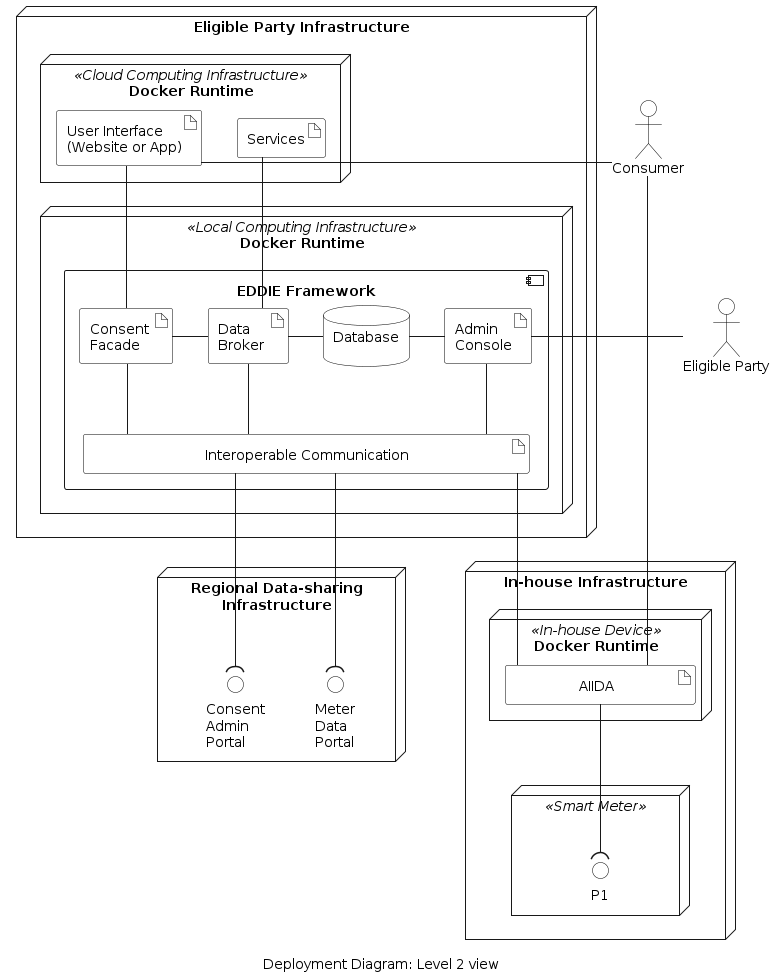
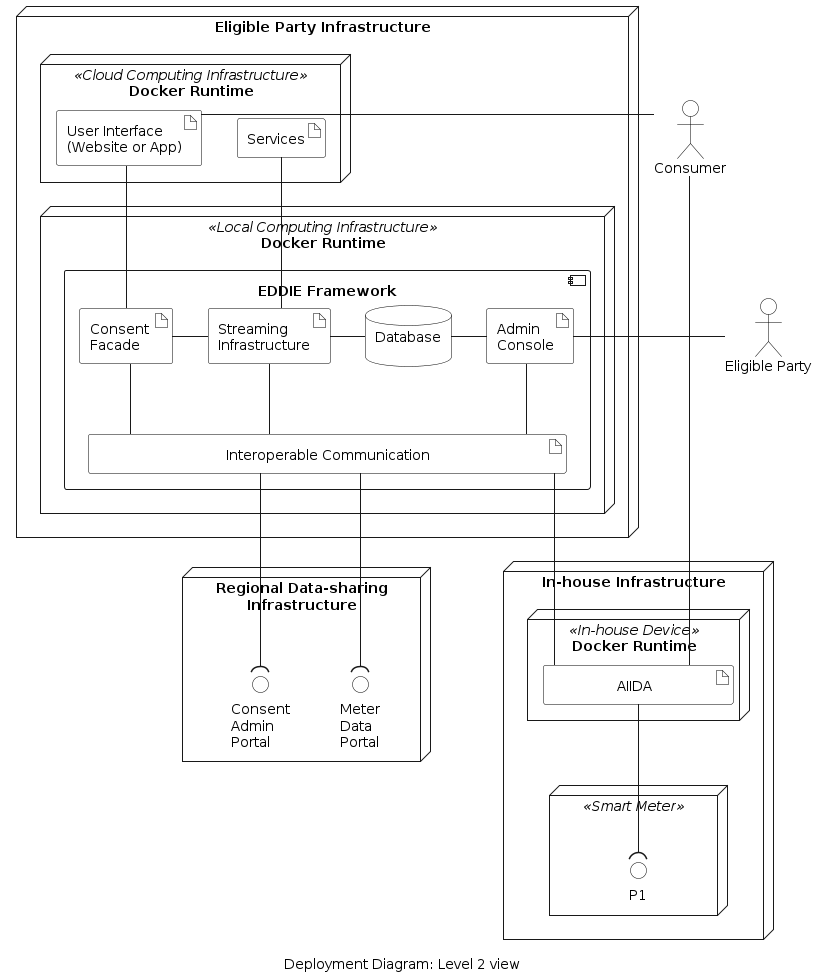
Change naming to reflect the proposal

diff --git a/arc42/04-solution-strategy/index.md b/arc42/04-solution-strategy/index.md
@@ -22,8 +22,8 @@ There are certain goals of the framework which can be achieved by following a sp
 
 | No. | Quality Goal | Scenario | Approach | Details |
 |-|-|-|-|-|
-| 1 | Consent collection | All consumers shall provide their consent for sharing data in a homogeneous manner, regardless of their country or their utility provider.| Implement a Consent Facade component based on the European Reference Process for providing consent. This component shall include speacialized adaptors implmenting the specificities of each country. | [Link](./consent-facade/consent-facade.md) |
-| 2 | World-wide coverage | Consumers from around the world shall be eligible to use the framework. | Devise a multi-stage expansion plan (starting from one area and expanding to others) that achieves coverage of a large area around the world. | [Link](./expansion-plan/expansion-plan.md) |
+| 1 | Consent Facade | All consumers shall provide their consent for sharing data in a homogeneous manner, regardless of their country or their utility provider.| Implement a Consent Facade component based on the European Reference Process for providing consent. This component shall include speacialized adaptors implmenting the specificities of each country. | [Link](./consent-facade/consent-facade.md) |
+| 2 | Far-reaching | Eligible parties in many countries shall be able to use the EDDIE Framework. | The EDDIE Framework shall become compatible with multiple regional data hubs in three phases. | [Link](./three-phases/three-phases.md) |
 | 3 | Incentives | Why would consumers and eligible parties use eddie | marketplace |  |
 | 4 |  |  |  |  |
 

diff --git a/arc42/05-building-block-view/index.md b/arc42/05-building-block-view/index.md
@@ -84,7 +84,7 @@ The EDDIE Framework includes the following components.
 | Component | Responsibility |
 | - | - |
 | Consent Facade | Manages and stores the consent of the consumers. |
-| Data Broker | Handles the communication among internal and external components |
+| Streaming Infrastructure | Handles the communication among internal and external components |
 | Database | Stores information about consents, state, and data. |
 | Admin Console | Entry point for the eligible party to register with regional data-sharing infrastructure (if necessary). |
 | Interoperable Communication | Translates messages/data from different Regional Data-sharing Infrastructures (e.g., from different countries) to a unified format. |
@@ -102,7 +102,7 @@ The Level 2 view introduces the following interfaces.
 | Provided From | Consumed By | Type | Data Model |
 | - | - | - | - |
 | Consent Facade | User Interface | HTTP | [Link](./data-models/consent-facade-interface.md) |
-| Data Broker | Services | Kafka | [Link](./data-models/data-broker-interface.md) |
+| Streaming Infrastructure | Services | Kafka | [Link](./data-models/data-broker-interface.md) |
 | Interoperable Communication | AIIDA | Kafka | [Link](./data-models/inter-comm-aiida-interface.md) |
 
 ### Black Boxes

diff --git a/arc42/04-solution-strategy/three-phases/three-phases.md b/arc42/04-solution-strategy/three-phases/three-phases.md
@@ -1,0 +1,18 @@
+---
+title: Three Phases
+---
+
+These phases are described in the table below.
+
+| Phase | Included Countries | Comment |
+|-|-|-|
+| 1 | Austria, Germany, Italy, France, and Spain. | Compatibility with countries of contributors to the consortium. |
+| 2 | Norway, Finland, Estonia, Latvia, Lithuania, Poland, Greece, Netherlands, Belgium, Portugal, and Ireland. | Compatibility with other countries within Europe (excluded in Phase 1). |
+| 3 | Australia, United Kingdom, and United States of America | Compatibility with countries outside Europe. |
+
+The Phase 1 will be with contributors to the consortium (already adding up to more than 69% of European metering points as estimated in section 1.2.7),
+the Phase 2 will be with other data hubs not directly in the project (25%) and a Phase 3 adds data-sharing infrastructures outside Europe. So, EDDIE aims on making available more than 70% of European metering points (taking into account that not all attempted regional connectors will be feasible due to environmental factors), as shown below. 
+
+<div align="center">
+<img src="./figures/EDDIE_Coverage.jpg" width="800">
+</div>
